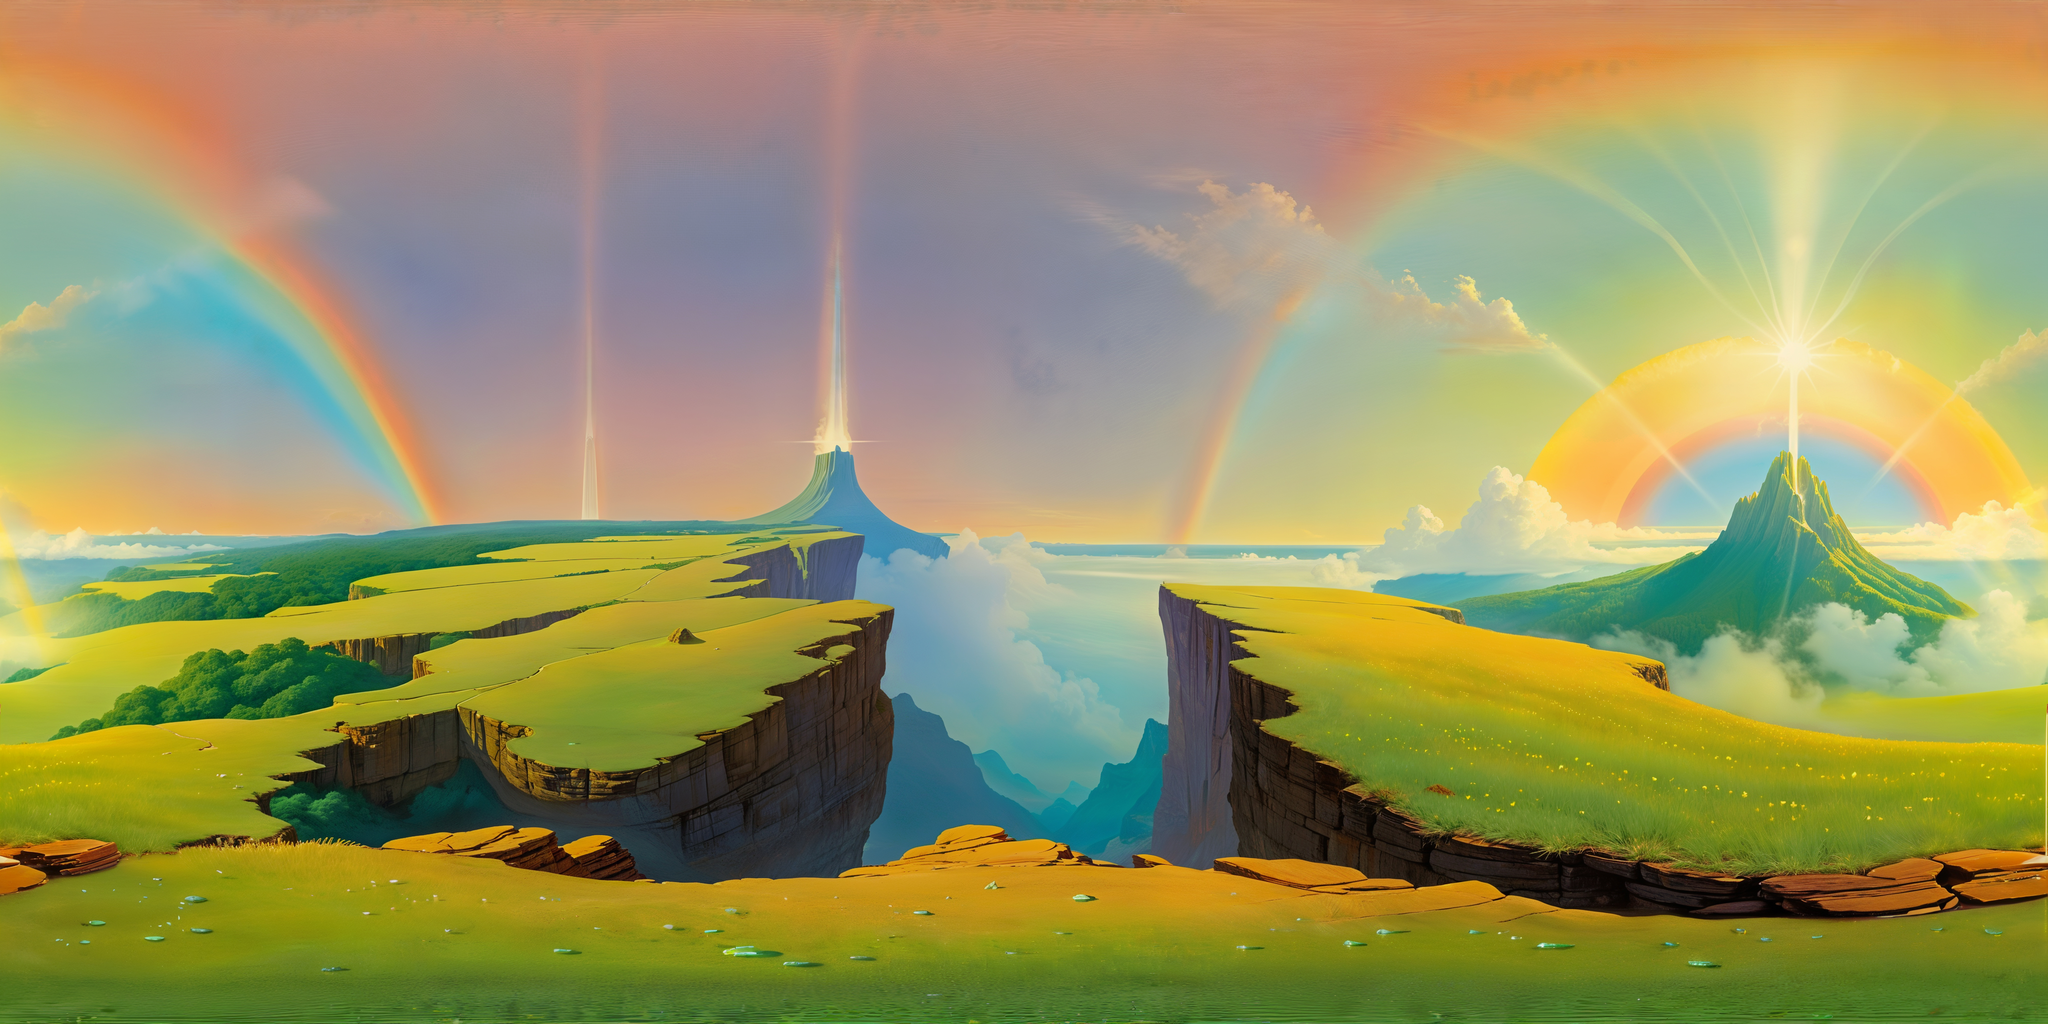
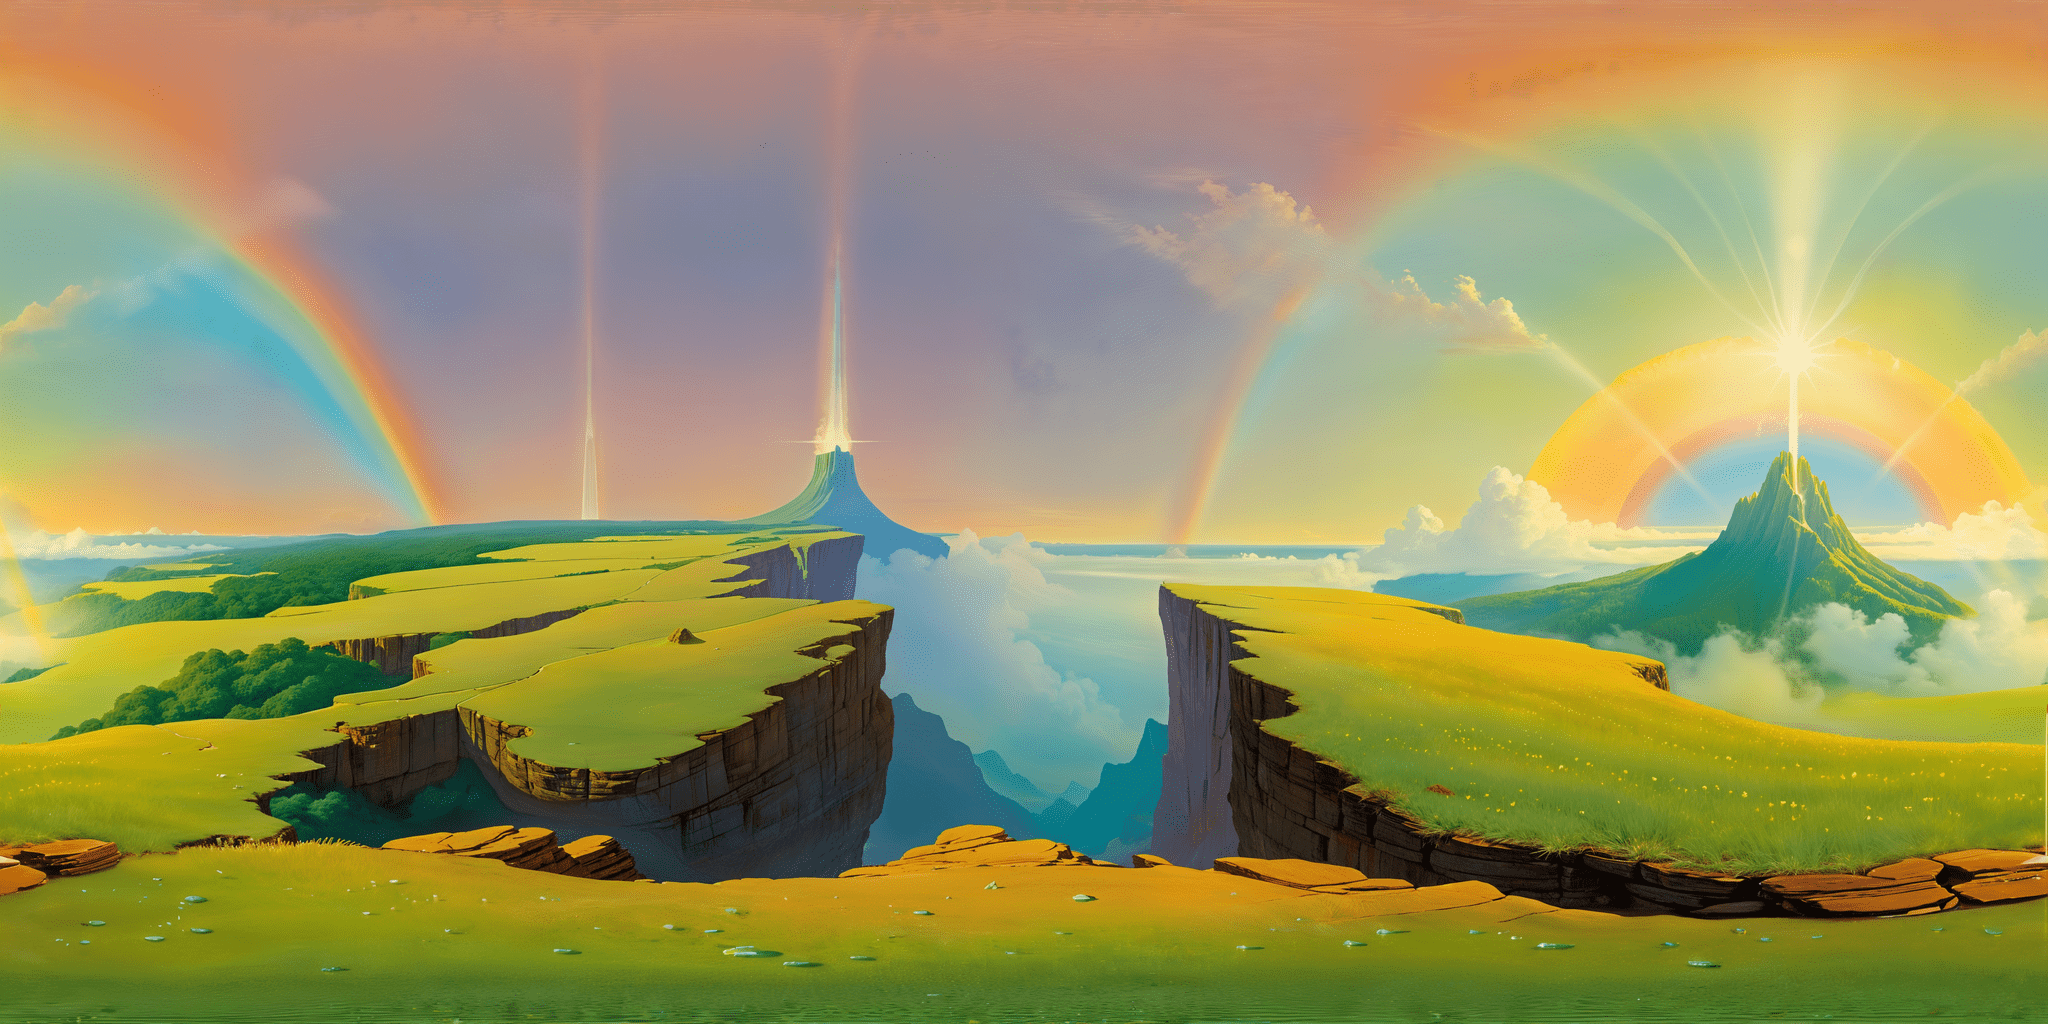
Optimize skybox PNGs + add in-app load-failure diagnostic
Cuts skybox bundle from 33MB -> 15MB via pngquant (--quality=70-85).
Decoded image size in RAM is unchanged (still 2048x1024) but file size
no longer bloats the IPA or asset-bundle parsing on lower-memory iOS
devices, which is the leading suspect for the gradient-fallback bug
seen on TestFlight v0.2.0.

SkyboxComponent now exposes calmError/revealError/hasLoadFailure and
takes an optional GameEvents sink for telemetry. HudOverlay surfaces a
dark-red diagnostic banner under the score whenever either layer fails
to load, so a TestFlight tester without Mac/Xcode access can screenshot
the actual exception text.

Analytics path (events.assetLoadFailed) is wired through but currently
NoOp — ready for a real sink (Sentry has lowest setup cost).

Tooling: tools/optimize_skyboxes.ps1 runs pngquant in place; install
prereq via 'choco install pngquant -y'.

Changed region(s): [[0.8125, 0.625, 0.8438, 0.6562], [0.5625, 0.7812, 0.5938, 0.8125]]

diff --git a/lib/game/components/skybox_component.dart b/lib/game/components/skybox_component.dart
@@ -5,6 +5,7 @@ import 'package:flame/flame.dart';
 import 'package:flutter/foundation.dart';
 import 'package:flutter/painting.dart';
 
+import '../../analytics/events.dart';
 import '../systems/arena_registry.dart';
 import '../systems/skybox_reveal_controller.dart';
 
@@ -26,19 +27,38 @@ class SkyboxComponent extends PositionComponent {
     required Vector2 size,
     required this.theme,
     SkyboxRevealController? controller,
+    this.events,
   })  : controller = controller ?? SkyboxRevealController(),
         super(size: size);
 
   final ArenaTheme theme;
   final SkyboxRevealController controller;
 
+  /// Optional analytics sink — when present, asset load failures are
+  /// reported via [GameEvents.assetLoadFailed] so a remote telemetry
+  /// backend (Sentry/Crashlytics/Firebase) can capture iOS-only decode
+  /// failures without device-log access.
+  final GameEvents? events;
+
   ui.Image? _calmImage;
   ui.Image? _revealImage;
 
+  /// Per-layer load error string, or null if the layer loaded fine. The
+  /// HUD overlay reads these to render an on-screen diagnostic banner so
+  /// a TestFlight tester can screenshot the failure mode without needing
+  /// a Mac to view the device console.
+  String? calmError;
+  String? revealError;
+  bool get hasLoadFailure => calmError != null || revealError != null;
+
   @override
   Future<void> onLoad() async {
-    _calmImage = await _tryLoad(theme.calmSpritePath);
-    _revealImage = await _tryLoad(theme.revealSpritePath);
+    final calmResult = await _tryLoad(theme.calmSpritePath);
+    _calmImage = calmResult.image;
+    calmError = calmResult.error;
+    final revealResult = await _tryLoad(theme.revealSpritePath);
+    _revealImage = revealResult.image;
+    revealError = revealResult.error;
     debugPrint(
       'SkyboxComponent[${theme.key}]: '
       'calm=${_calmImage != null ? "${_calmImage!.width}x${_calmImage!.height}" : "FALLBACK-GRADIENT"}, '
@@ -46,14 +66,22 @@ class SkyboxComponent extends PositionComponent {
     );
   }
 
-  Future<ui.Image?> _tryLoad(String imagesRelativePath) async {
+  Future<({ui.Image? image, String? error})> _tryLoad(
+    String imagesRelativePath,
+  ) async {
     try {
-      return await Flame.images.load(imagesRelativePath);
+      final image = await Flame.images.load(imagesRelativePath);
+      return (image: image, error: null);
     } catch (e) {
+      final errorString = e.toString();
       debugPrint(
-        'SkyboxComponent: image load FAILED for $imagesRelativePath — $e',
+        'SkyboxComponent: image load FAILED for $imagesRelativePath — $errorString',
       );
-      return null;
+      events?.assetLoadFailed(
+        assetPath: 'assets/images/$imagesRelativePath',
+        error: errorString,
+      );
+      return (image: null, error: errorString);
     }
   }
 

diff --git a/lib/game/components/hud_overlay.dart b/lib/game/components/hud_overlay.dart
@@ -44,9 +44,49 @@ class _HudOverlayState extends State<HudOverlay> {
     }
   }
 
+  /// On-screen banner shown only when the skybox failed to load — gives a
+  /// TestFlight tester (no Mac, no device console) something concrete to
+  /// screenshot and report back. Returns null when everything loaded.
+  Widget? _skyboxDiagnostic() {
+    try {
+      final sky = widget.game.skybox;
+      if (!sky.hasLoadFailure) return null;
+      final lines = <String>[
+        'SKYBOX LOAD FAILED — theme=${sky.theme.key}',
+        if (sky.calmError != null) 'calm: ${sky.calmError}',
+        if (sky.revealError != null) 'reveal: ${sky.revealError}',
+      ];
+      return Container(
+        padding: const EdgeInsets.all(8),
+        decoration: BoxDecoration(
+          color: const Color(0xCC8B0000),
+          borderRadius: BorderRadius.circular(6),
+        ),
+        child: Column(
+          crossAxisAlignment: CrossAxisAlignment.start,
+          mainAxisSize: MainAxisSize.min,
+          children: lines
+              .map((line) => Text(
+                    line,
+                    style: const TextStyle(
+                      color: Colors.white,
+                      fontSize: 11,
+                      fontFamily: 'monospace',
+                      height: 1.3,
+                    ),
+                  ))
+              .toList(growable: false),
+        ),
+      );
+    } catch (_) {
+      return null;
+    }
+  }
+
   @override
   Widget build(BuildContext context) {
     final data = _readGame();
+    final diag = _skyboxDiagnostic();
     return SafeArea(
       child: Padding(
         padding: const EdgeInsets.all(16),
@@ -86,6 +126,10 @@ class _HudOverlayState extends State<HudOverlay> {
                 ),
               ],
             ),
+            if (diag != null) ...[
+              const SizedBox(height: 12),
+              diag,
+            ],
           ],
         ),
       ),

diff --git a/lib/game/squishy_game.dart b/lib/game/squishy_game.dart
@@ -80,9 +80,15 @@ class SquishyGame extends FlameGame {
     final featuredPack = ServiceLocator.packs.byId(featuredPackId);
     final arenaTheme =
         ArenaRegistry.themeFor(featuredPack?.arenaSuggestion);
+
+    // Create events early so SkyboxComponent can report load failures to
+    // analytics during its own onLoad. Reused for the rest of the round.
+    events = GameEvents(ServiceLocator.analytics);
+
     skybox = SkyboxComponent(
       size: arena.arenaSize.clone(),
       theme: arenaTheme,
+      events: events,
     );
     await arena.add(skybox);
 
@@ -104,8 +110,6 @@ class SquishyGame extends FlameGame {
         shaker: shaker,
       ),
     )..voiceLines.addAll(VoiceLineRegistry.dispatcherMap);
-
-    events = GameEvents(ServiceLocator.analytics);
 
     final featured = ServiceLocator.packs.schedule.currentWeek(DateTime.now());
     _activePackId = featured?.featuredPack ??
